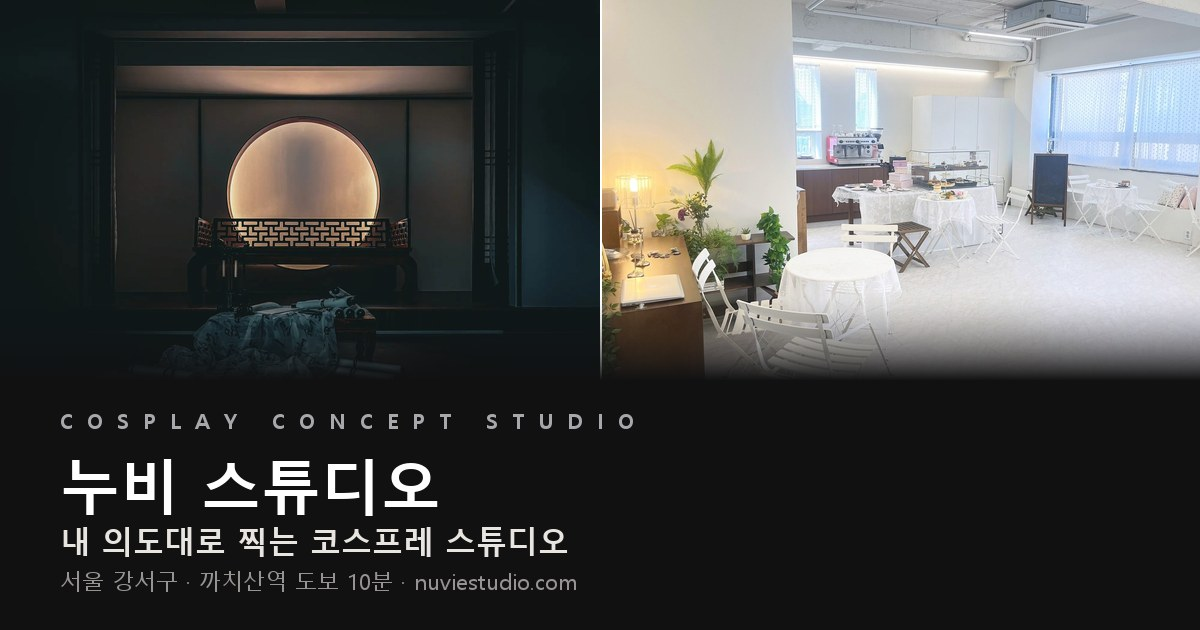
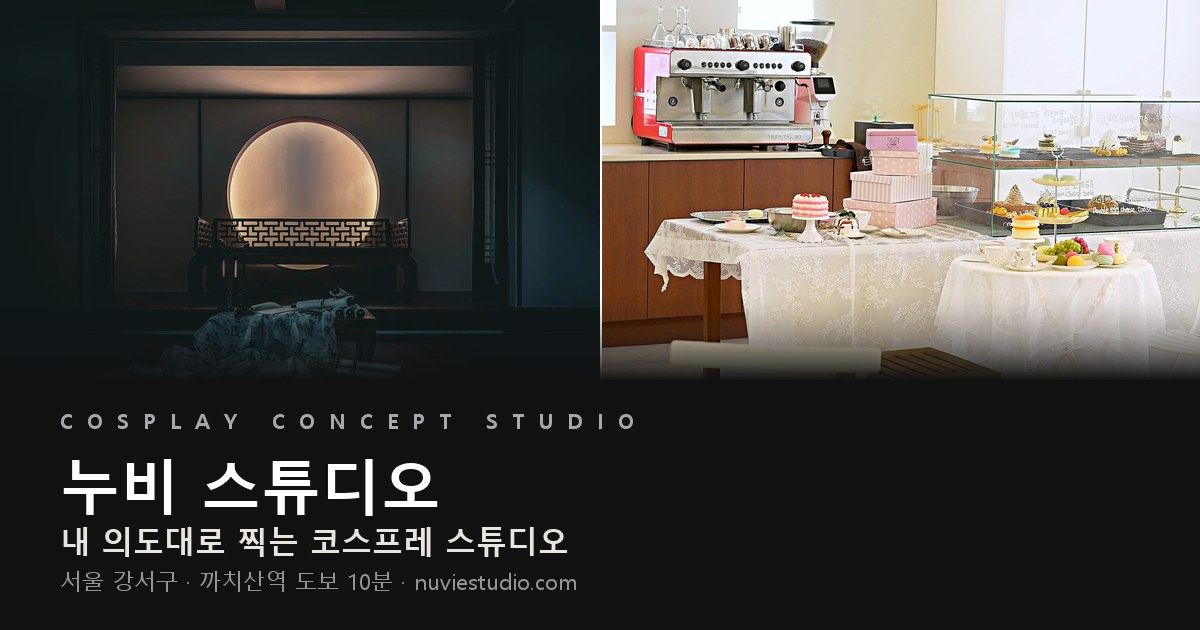
feat(landing): /b photos swapped to the B-room v2 retouch in the owner's hour-place listing order (10-02)
Owner (via coordinator + marketing): /b follows the B listing 62341 order the owner set at 10:1x.
Hero + og-b = listing cover 01 (counter, coffee machine). Gallery = listing 2-12 (11 photos, 01 not
repeated), end video unchanged. 14 (dropped from the listing), 09 and 10 are not used. /b freeze
exception: owner «측정이 섞여도 괜찮음»; brightness untouched (crop + LANCZOS resize only, per-photo
3:4 crop position chosen so the subject stays in frame). New -1002 file names so cached old images
never pair with new alts. Hub: light hero, room card, mobile gallery B slides follow (caption of
slide 1 «카페 카운터», alts describe photo 01). build_b_photos_1002.py rebuilds the set.
Test: test_b_photos_v2_1002.py (7 RED -> GREEN; pixel check locks crop position and no retouch).

Changed region(s): [[0.4933, 0.0, 1.0, 0.6032], [0.9558, 0.4524, 1.0, 0.5429]]

diff --git a/b.html b/b.html
@@ -76,16 +76,16 @@
 <meta property="og:title" content="B룸 화이트 티타임 카페 — 누비 스튜디오">
 <meta property="og:description" content="오후 5시부터 노을까지 통창 자연광이 드는 화이트 톤 공간. 티세트·앤티크 소품, 파우더룸. 약 11평 무인 단독 대관. 까치산역 도보 10분.">
 <meta property="og:url" content="https://www.nuviestudio.com/b">
-<meta property="og:image" content="https://www.nuviestudio.com/img/og-b-1001.jpg">
+<meta property="og:image" content="https://www.nuviestudio.com/img/og-b-1002.jpg">
 <meta property="og:locale" content="ko_KR">
 <meta name="twitter:card" content="summary_large_image">
 <meta name="twitter:site" content="@nuvie_studio">
 <meta name="twitter:title" content="B룸 화이트 티타임 카페 — 누비 스튜디오">
 <meta name="twitter:description" content="오후 5시부터 노을까지 통창 자연광이 드는 화이트 톤 공간. 티세트·앤티크 소품, 파우더룸. 약 11평 무인 단독 대관. 까치산역 도보 10분.">
-<meta name="twitter:image" content="https://www.nuviestudio.com/img/og-b-1001.jpg">
+<meta name="twitter:image" content="https://www.nuviestudio.com/img/og-b-1002.jpg">
 <link rel="icon" href="/favicon.ico" sizes="any">
 <link rel="apple-touch-icon" href="/apple-touch-icon.png">
-<link rel="preload" as="image" href="/img/room-b-1001.jpg" imagesrcset="/img/room-b-1001-800.jpg 800w, /img/room-b-1001-1200.jpg 1200w, /img/room-b-1001.jpg 1600w" imagesizes="100vw" fetchpriority="high">
+<link rel="preload" as="image" href="/img/room-b-1002.jpg" imagesrcset="/img/room-b-1002-800.jpg 800w, /img/room-b-1002-1200.jpg 1200w, /img/room-b-1002.jpg 1600w" imagesizes="100vw" fetchpriority="high">
 <link rel="stylesheet" href="/fonts.css">
 <link rel="stylesheet" href="/styles.css">
 <script type="application/ld+json">
@@ -97,10 +97,10 @@
   "description": "오후 5시부터 노을까지 통창 자연광이 드는 화이트 톤 공간. 티세트·앤티크 소품, 파우더룸. 약 11평 무인 단독 대관. 까치산역 도보 10분.",
   "url": "https://www.nuviestudio.com/b",
   "image": [
-    "https://www.nuviestudio.com/img/galB-1001-1.jpg",
-    "https://www.nuviestudio.com/img/galB-1001-2.jpg",
-    "https://www.nuviestudio.com/img/galB-1001-3.jpg",
-    "https://www.nuviestudio.com/img/galB-1001-4.jpg"
+    "https://www.nuviestudio.com/img/galB-1002-1.jpg",
+    "https://www.nuviestudio.com/img/galB-1002-2.jpg",
+    "https://www.nuviestudio.com/img/galB-1002-3.jpg",
+    "https://www.nuviestudio.com/img/galB-1002-4.jpg"
   ],
   "brand": {
     "@type": "Brand",
@@ -218,7 +218,7 @@
   <main class="main" id="top">
     <header class="hero" data-hero-tone="light" style="position:relative;height:76vh;min-height:480px;display:flex;flex-direction:column;justify-content:flex-end;overflow:hidden">
       <div style="position:absolute;inset:0;background:linear-gradient(135deg,#0B0B0C,#1C1C1F)"></div>
-      <div class="heroImgWrap" style="position:absolute;inset:0"><img data-fallback="1" data-ken decoding="async" fetchpriority="high" src="/img/room-b-1001.jpg" srcset="/img/room-b-1001-800.jpg 800w, /img/room-b-1001-1200.jpg 1200w, /img/room-b-1001.jpg 1600w" sizes="100vw" alt="B룸 화이트 티타임 카페 전경 — 자연광이 드는 화이트 톤 공간에 흰 테이블 세팅" style="display:block;width:100%;height:100%;object-fit:cover;filter:brightness(.76) saturate(.95);transform:scale(1.05)"></div>
+      <div class="heroImgWrap" style="position:absolute;inset:0"><img data-fallback="1" data-ken decoding="async" fetchpriority="high" src="/img/room-b-1002.jpg" srcset="/img/room-b-1002-800.jpg 800w, /img/room-b-1002-1200.jpg 1200w, /img/room-b-1002.jpg 1600w" sizes="100vw" alt="B룸 화이트 티타임 카페 — 커피머신 카운터와 레이스 티테이블" style="display:block;width:100%;height:100%;object-fit:cover;filter:brightness(.76) saturate(.95);transform:scale(1.05)"></div>
       <div class="heroScrim" style="position:absolute;inset:0;background:linear-gradient(180deg,rgba(6,6,7,.30) 0%,rgba(6,6,7,.06) 26%,rgba(6,6,7,.60) 62%,rgba(6,6,7,.92) 100%)"></div>
       <div class="herotop" style="position:absolute;top:0;left:0;right:0;z-index:3;padding:26px 40px;display:flex;justify-content:space-between;align-items:center;gap:14px;font-family:var(--label-font);font-size:11px;letter-spacing:.24em;text-transform:uppercase;color:rgba(255,255,255,.8)">
         <a href="/" style="white-space:nowrap;color:inherit;text-decoration:none">← 누비 스튜디오</a>
@@ -274,7 +274,7 @@
             <div><div class="skick">Gallery</div><h2 style="margin:0;font-size:clamp(26px,3vw,40px);letter-spacing:-.02em">공간</h2></div>
           </div>
           <p class="desc" data-reveal style="margin:0 0 34px">B룸에서 찍힌 장면들이에요.</p>
-          <div class="gal" data-reveal style="display:grid;grid-template-columns:repeat(2,1fr);gap:14px"><div style="aspect-ratio:3/4;overflow:hidden;border-radius:6px;border:1px solid var(--line);position:relative;background:linear-gradient(135deg,var(--elev),var(--panel))"><img data-fallback="1" data-zoom loading="lazy" decoding="async" src="/img/galB-1001-1.jpg" alt="B룸 카운터 — 커피머신과 레이스 테이블 세팅" style="position:absolute;inset:0;width:100%;height:100%;object-fit:cover;transition:transform .6s cubic-bezier(.22,.61,.36,1)"></div><div style="aspect-ratio:3/4;overflow:hidden;border-radius:6px;border:1px solid var(--line);position:relative;background:linear-gradient(135deg,var(--elev),var(--panel))"><img data-fallback="1" data-zoom loading="lazy" decoding="async" src="/img/galB-1001-2.jpg" alt="B룸 창가 — 원형 티테이블과 곰인형" style="position:absolute;inset:0;width:100%;height:100%;object-fit:cover;transition:transform .6s cubic-bezier(.22,.61,.36,1)"></div><div style="aspect-ratio:3/4;overflow:hidden;border-radius:6px;border:1px solid var(--line);position:relative;background:linear-gradient(135deg,var(--elev),var(--panel))"><img data-fallback="1" data-zoom loading="lazy" decoding="async" src="/img/galB-1001-3.jpg" alt="B룸 티세트 — 3단 디저트 스탠드와 찻잔" style="position:absolute;inset:0;width:100%;height:100%;object-fit:cover;transition:transform .6s cubic-bezier(.22,.61,.36,1)"></div><div style="aspect-ratio:3/4;overflow:hidden;border-radius:6px;border:1px solid var(--line);position:relative;background:linear-gradient(135deg,var(--elev),var(--panel))"><img data-fallback="1" data-zoom loading="lazy" decoding="async" src="/img/galB-1001-4.jpg" alt="B룸 창가 자리 — 레이스 커튼과 티테이블" style="position:absolute;inset:0;width:100%;height:100%;object-fit:cover;transition:transform .6s cubic-bezier(.22,.61,.36,1)"></div><div style="aspect-ratio:3/4;overflow:hidden;border-radius:6px;border:1px solid var(--line);position:relative;background:linear-gradient(135deg,var(--elev),var(--panel))"><img data-fallback="1" data-zoom loading="lazy" decoding="async" src="/img/galB-1001-5.jpg" alt="B룸 디저트 진열장" style="position:absolute;inset:0;width:100%;height:100%;object-fit:cover;transition:transform .6s cubic-bezier(.22,.61,.36,1)"></div><div style="aspect-ratio:3/4;overflow:hidden;border-radius:6px;border:1px solid var(--line);position:relative;background:linear-gradient(135deg,var(--elev),var(--panel))"><img data-fallback="1" data-zoom loading="lazy" decoding="async" src="/img/galB-1001-6.jpg" alt="B룸 파우더 코너 — 조명 거울과 원목 데스크" style="position:absolute;inset:0;width:100%;height:100%;object-fit:cover;transition:transform .6s cubic-bezier(.22,.61,.36,1)"></div><div style="aspect-ratio:3/4;overflow:hidden;border-radius:6px;border:1px solid var(--line);position:relative;background:linear-gradient(135deg,var(--elev),var(--panel))"><img data-fallback="1" data-zoom loading="lazy" decoding="async" src="/img/galB-1001-7.jpg" alt="B룸 화장대 코너 — 스탠드 조명과 화분" style="position:absolute;inset:0;width:100%;height:100%;object-fit:cover;transition:transform .6s cubic-bezier(.22,.61,.36,1)"></div><div style="aspect-ratio:3/4;overflow:hidden;border-radius:6px;border:1px solid var(--line);position:relative;background:linear-gradient(135deg,var(--elev),var(--panel))"><img data-fallback="1" data-zoom loading="lazy" decoding="async" src="/img/galB-1001-8.jpg" alt="B룸 거울과 촛대" style="position:absolute;inset:0;width:100%;height:100%;object-fit:cover;transition:transform .6s cubic-bezier(.22,.61,.36,1)"></div><div style="aspect-ratio:3/4;overflow:hidden;border-radius:6px;border:1px solid var(--line);position:relative;background:linear-gradient(135deg,var(--elev),var(--panel))"><img data-fallback="1" data-zoom loading="lazy" decoding="async" src="/img/galB-1001-9.jpg" alt="B룸 창가 벤치와 곰인형" style="position:absolute;inset:0;width:100%;height:100%;object-fit:cover;transition:transform .6s cubic-bezier(.22,.61,.36,1)"></div><div style="aspect-ratio:3/4;overflow:hidden;border-radius:6px;border:1px solid var(--line);position:relative;background:linear-gradient(135deg,var(--elev),var(--panel))"><img data-fallback="1" data-zoom loading="lazy" decoding="async" src="/img/galB-1001-10.jpg" alt="B룸 디저트 테이블 — 3단 스탠드와 레이스 테이블" style="position:absolute;inset:0;width:100%;height:100%;object-fit:cover;transition:transform .6s cubic-bezier(.22,.61,.36,1)"></div><div style="aspect-ratio:3/4;overflow:hidden;border-radius:6px;border:1px solid var(--line);position:relative;background:linear-gradient(135deg,var(--elev),var(--panel))"><img data-fallback="1" data-zoom loading="lazy" decoding="async" src="/img/galB-1001-11.jpg" alt="B룸 에스프레소 머신과 그라인더" style="position:absolute;inset:0;width:100%;height:100%;object-fit:cover;transition:transform .6s cubic-bezier(.22,.61,.36,1)"></div><div style="aspect-ratio:3/4;overflow:hidden;border-radius:6px;border:1px solid var(--line);position:relative;background:linear-gradient(135deg,var(--elev),var(--panel))"><img data-fallback="1" data-zoom loading="lazy" decoding="async" src="/img/galB-1001-12.jpg" alt="B룸 창가 벤치와 칠판, 원형 티테이블" style="position:absolute;inset:0;width:100%;height:100%;object-fit:cover;transition:transform .6s cubic-bezier(.22,.61,.36,1)"></div><div class="galvid" style="aspect-ratio:3/4;overflow:hidden;border-radius:6px;border:1px solid var(--line);position:relative;background:linear-gradient(135deg,var(--elev),var(--panel))"><video muted loop playsinline preload="none" data-src="/img/b-table-1001.mp4" data-poster="/img/b-table-1001-poster.jpg" aria-label="B룸 디저트 테이블과 카운터를 천천히 따라가는 영상" style="position:absolute;inset:0;width:100%;height:100%;object-fit:cover;transition:transform .6s cubic-bezier(.22,.61,.36,1)"></video><button type="button" class="galvid-btn" aria-label="영상 일시정지" hidden></button></div></div>
+          <div class="gal" data-reveal style="display:grid;grid-template-columns:repeat(2,1fr);gap:14px"><div style="aspect-ratio:3/4;overflow:hidden;border-radius:6px;border:1px solid var(--line);position:relative;background:linear-gradient(135deg,var(--elev),var(--panel))"><img data-fallback="1" data-zoom loading="lazy" decoding="async" src="/img/galB-1002-1.jpg" alt="B룸 카운터 — 디저트 상자와 케이크 진열" style="position:absolute;inset:0;width:100%;height:100%;object-fit:cover;transition:transform .6s cubic-bezier(.22,.61,.36,1)"></div><div style="aspect-ratio:3/4;overflow:hidden;border-radius:6px;border:1px solid var(--line);position:relative;background:linear-gradient(135deg,var(--elev),var(--panel))"><img data-fallback="1" data-zoom loading="lazy" decoding="async" src="/img/galB-1002-2.jpg" alt="B룸 전경 — 카운터와 원형 티테이블" style="position:absolute;inset:0;width:100%;height:100%;object-fit:cover;transition:transform .6s cubic-bezier(.22,.61,.36,1)"></div><div style="aspect-ratio:3/4;overflow:hidden;border-radius:6px;border:1px solid var(--line);position:relative;background:linear-gradient(135deg,var(--elev),var(--panel))"><img data-fallback="1" data-zoom loading="lazy" decoding="async" src="/img/galB-1002-3.jpg" alt="B룸 창가 — 곰인형과 원형 티테이블" style="position:absolute;inset:0;width:100%;height:100%;object-fit:cover;transition:transform .6s cubic-bezier(.22,.61,.36,1)"></div><div style="aspect-ratio:3/4;overflow:hidden;border-radius:6px;border:1px solid var(--line);position:relative;background:linear-gradient(135deg,var(--elev),var(--panel))"><img data-fallback="1" data-zoom loading="lazy" decoding="async" src="/img/galB-1002-4.jpg" alt="B룸 창가 — 레이스 커튼과 곰인형" style="position:absolute;inset:0;width:100%;height:100%;object-fit:cover;transition:transform .6s cubic-bezier(.22,.61,.36,1)"></div><div style="aspect-ratio:3/4;overflow:hidden;border-radius:6px;border:1px solid var(--line);position:relative;background:linear-gradient(135deg,var(--elev),var(--panel))"><img data-fallback="1" data-zoom loading="lazy" decoding="async" src="/img/galB-1002-5.jpg" alt="B룸 창가 자리 — 티테이블과 쿠션 의자" style="position:absolute;inset:0;width:100%;height:100%;object-fit:cover;transition:transform .6s cubic-bezier(.22,.61,.36,1)"></div><div style="aspect-ratio:3/4;overflow:hidden;border-radius:6px;border:1px solid var(--line);position:relative;background:linear-gradient(135deg,var(--elev),var(--panel))"><img data-fallback="1" data-zoom loading="lazy" decoding="async" src="/img/galB-1002-6.jpg" alt="B룸 디저트 스탠드 — 3단 스탠드와 찻잔" style="position:absolute;inset:0;width:100%;height:100%;object-fit:cover;transition:transform .6s cubic-bezier(.22,.61,.36,1)"></div><div style="aspect-ratio:3/4;overflow:hidden;border-radius:6px;border:1px solid var(--line);position:relative;background:linear-gradient(135deg,var(--elev),var(--panel))"><img data-fallback="1" data-zoom loading="lazy" decoding="async" src="/img/galB-1002-7.jpg" alt="B룸 디저트 — 조각 케이크 근접" style="position:absolute;inset:0;width:100%;height:100%;object-fit:cover;transition:transform .6s cubic-bezier(.22,.61,.36,1)"></div><div style="aspect-ratio:3/4;overflow:hidden;border-radius:6px;border:1px solid var(--line);position:relative;background:linear-gradient(135deg,var(--elev),var(--panel))"><img data-fallback="1" data-zoom loading="lazy" decoding="async" src="/img/galB-1002-8.jpg" alt="B룸 화장대 — 조명 거울과 의자" style="position:absolute;inset:0;width:100%;height:100%;object-fit:cover;transition:transform .6s cubic-bezier(.22,.61,.36,1)"></div><div style="aspect-ratio:3/4;overflow:hidden;border-radius:6px;border:1px solid var(--line);position:relative;background:linear-gradient(135deg,var(--elev),var(--panel))"><img data-fallback="1" data-zoom loading="lazy" decoding="async" src="/img/galB-1002-9.jpg" alt="B룸 탈의 공간 — 커튼과 스팀다리미" style="position:absolute;inset:0;width:100%;height:100%;object-fit:cover;transition:transform .6s cubic-bezier(.22,.61,.36,1)"></div><div style="aspect-ratio:3/4;overflow:hidden;border-radius:6px;border:1px solid var(--line);position:relative;background:linear-gradient(135deg,var(--elev),var(--panel))"><img data-fallback="1" data-zoom loading="lazy" decoding="async" src="/img/galB-1002-10.jpg" alt="B룸 소품 코너 — 스탠드 조명과 화분" style="position:absolute;inset:0;width:100%;height:100%;object-fit:cover;transition:transform .6s cubic-bezier(.22,.61,.36,1)"></div><div style="aspect-ratio:3/4;overflow:hidden;border-radius:6px;border:1px solid var(--line);position:relative;background:linear-gradient(135deg,var(--elev),var(--panel))"><img data-fallback="1" data-zoom loading="lazy" decoding="async" src="/img/galB-1002-11.jpg" alt="B룸 거울 코너 — 앤티크 거울과 촛대" style="position:absolute;inset:0;width:100%;height:100%;object-fit:cover;transition:transform .6s cubic-bezier(.22,.61,.36,1)"></div><div class="galvid" style="aspect-ratio:3/4;overflow:hidden;border-radius:6px;border:1px solid var(--line);position:relative;background:linear-gradient(135deg,var(--elev),var(--panel))"><video muted loop playsinline preload="none" data-src="/img/b-table-1001.mp4" data-poster="/img/b-table-1001-poster.jpg" aria-label="B룸 디저트 테이블과 카운터를 천천히 따라가는 영상" style="position:absolute;inset:0;width:100%;height:100%;object-fit:cover;transition:transform .6s cubic-bezier(.22,.61,.36,1)"></video><button type="button" class="galvid-btn" aria-label="영상 일시정지" hidden></button></div></div>
         </section>
 
         <section id="reviews">

diff --git a/index.html b/index.html
@@ -93,7 +93,7 @@
      09-29 동적 서브셋의 늦은 교체로 /a 360px 뒤로 가기 CLS 0.4~0.6·렌더 차단(/a 첫 화면 3.1초). -->
 <link rel="stylesheet" href="/fonts.css">
 <!-- 2026-09-17 P0: 히어로 LCP 프리로드(srcset 반영·모바일 800w) + 룸 상세 선수신(quick_back 완화·인앱 Chromium만·스크립트 실행 없음). -->
-<link rel="preload" as="image" href="/img/room-b-1001.jpg" imagesrcset="/img/room-b-1001-800.jpg 800w, /img/room-b-1001-1200.jpg 1200w, /img/room-b-1001.jpg 1600w" imagesizes="100vw" fetchpriority="high">
+<link rel="preload" as="image" href="/img/room-b-1002.jpg" imagesrcset="/img/room-b-1002-800.jpg 800w, /img/room-b-1002-1200.jpg 1200w, /img/room-b-1002.jpg 1600w" imagesizes="100vw" fetchpriority="high">
 <link rel="prefetch" href="/a" as="document"><link rel="prefetch" href="/b" as="document">
 <script type="application/ld+json">
 {"@context":"https://schema.org","@type":"LocalBusiness","@id":"https://www.nuviestudio.com/#business","name":"누비 스튜디오 NUVIE STUDIO","alternateName":["누비스튜디오","NUVIE STUDIO"],"description":"코스프레 촬영을 위한 컨셉 렌탈 스튜디오. 동양풍 블랙 호리존 A룸, 화이트 티타임 카페 B룸. 무인 운영.","url":"https://www.nuviestudio.com/","telephone":"+82-70-8211-1103","image":"https://www.nuviestudio.com/og.jpg","areaServed":"서울","address":{"@type":"PostalAddress","streetAddress":"곰달래로 184, 4층 (화곡동 874-12 남양빌딩)","addressLocality":"서울 강서구","addressRegion":"서울","postalCode":"07782","addressCountry":"KR"},"openingHours":"Mo-Su 00:00-24:00","hasMap":["https://naver.me/GM334mVo","https://place.map.kakao.com/918861206"],"sameAs":["https://x.com/nuvie_studio","https://www.instagram.com/nuvie_studio","https://naver.me/GM334mVo","https://place.map.kakao.com/918861206","https://www.hourplace.co.kr/place/61823","https://www.hourplace.co.kr/place/62341"],"keywords":"코스프레 스튜디오, 코스프레 렌탈, 컨셉 스튜디오, 까치산역 스튜디오, 강서구 코스프레, 동양풍 스튜디오, 자연광 스튜디오, 화이트 티타임 카페, 티타임 스튜디오, 동양풍 코스프레 스튜디오, 동양풍 코스프레 촬영","knowsAbout":["코스프레 촬영","동양풍 코스프레","블랙 호리존(BLACK CYC, 4M × 2.5M × 2.3M) 촬영","자연광 룩북·프로필 촬영"],"priceRange":"₩₩","makesOffer":[{"@type":"Offer","name":"A룸 — 동양풍 & 블랙 호리존(BLACK CYC)","url":"https://www.hourplace.co.kr/place/61823","availability":"https://schema.org/InStock","category":"코스프레 스튜디오 대관"},{"@type":"Offer","name":"B룸 — 화이트 티타임 카페","url":"https://www.hourplace.co.kr/place/62341","availability":"https://schema.org/InStock","category":"촬영 스튜디오 대관"}],"dateModified":"2026-09-22"}
@@ -163,7 +163,7 @@
            ⚠ 초기 src 는 **기본 테마(라이트) = B룸**이어야 LCP 이미지가 헛되지 않는다.
            ⚠ 밝기는 룸마다 다르다 — A룸 원본이 이미 매우 어두워 .76 을 먹이면 검정 덩어리가 된다
               (그게 「최상단이 까맣다」의 원인이었다). 교체는 setTheme() 이 맡는다(아래 HERO_BG). -->
-      <div class="heroImgWrap" style="position:absolute;inset:0"><img id="heroImg" data-fallback="1" data-ken decoding="async" fetchpriority="high" src="/img/room-b-1001.jpg" srcset="/img/room-b-1001-800.jpg 800w, /img/room-b-1001-1200.jpg 1200w, /img/room-b-1001.jpg 1600w" sizes="100vw" alt="누비 스튜디오 B룸 화이트 티타임 카페 — 통창 자연광이 드는 화이트 톤 공간" style="display:block;position:absolute;inset:0;width:100%;height:100%;object-fit:cover;filter:brightness(.62) saturate(.95);transform:scale(1.05);opacity:1;transition:opacity .55s ease"></div>
+      <div class="heroImgWrap" style="position:absolute;inset:0"><img id="heroImg" data-fallback="1" data-ken decoding="async" fetchpriority="high" src="/img/room-b-1002.jpg" srcset="/img/room-b-1002-800.jpg 800w, /img/room-b-1002-1200.jpg 1200w, /img/room-b-1002.jpg 1600w" sizes="100vw" alt="누비 스튜디오 B룸 화이트 티타임 카페 — 커피머신 카운터와 레이스 티테이블" style="display:block;position:absolute;inset:0;width:100%;height:100%;object-fit:cover;filter:brightness(.62) saturate(.95);transform:scale(1.05);opacity:1;transition:opacity .55s ease"></div>
       <!-- 2026-08-05: class 신설. 모바일에서 이 스크림을 덮어써야 하는데 선택할 이름이 없었다(styles.css 참조). -->
       <div class="heroScrim" style="position:absolute;inset:0;background:linear-gradient(180deg,rgba(6,6,7,.30) 0%,rgba(6,6,7,.06) 26%,rgba(6,6,7,.60) 62%,rgba(6,6,7,.92) 100%)"></div>
       <div class="herotop" style="position:absolute;top:0;left:0;right:0;z-index:3;padding:26px 40px;display:flex;justify-content:space-between;align-items:center;gap:14px;font-family:var(--label-font);font-size:11px;letter-spacing:.24em;text-transform:uppercase;color:rgba(255,255,255,.8)">
@@ -239,11 +239,11 @@
       <div class="mgal-track" id="mgalTrack">
         <div class="mgal-slide"><img loading="eager" fetchpriority="low" decoding="async" src="/img/galA0.jpg" srcset="/img/galA0-800.jpg 800w, /img/galA0.jpg 1200w" sizes="84vw" alt="A룸 동양풍 — 월동문·블랙 호리존"><div class="mgal-cap"><b>A룸 · 동양풍</b><span>월동문 · 블랙 호리존</span></div></div>
         <!-- 2026-08-22 대표 지시: 새로 배치된 B룸은 «전경»(galB4 전체 공간)이 먼저 나온다. 디테일컷은 뒤로. -->
-        <div class="mgal-slide"><img loading="lazy" decoding="async" src="/img/room-b-1001.jpg" srcset="/img/room-b-1001-800.jpg 800w, /img/room-b-1001-1200.jpg 1200w, /img/room-b-1001.jpg 1600w" sizes="84vw" alt="B룸 화이트 티타임 카페 — 전체 공간 전경(카운터·티테이블·통창)"><div class="mgal-cap"><b>B룸 · 화이트</b><span>티타임 카페 전경</span></div></div>
+        <div class="mgal-slide"><img loading="lazy" decoding="async" src="/img/room-b-1002.jpg" srcset="/img/room-b-1002-800.jpg 800w, /img/room-b-1002-1200.jpg 1200w, /img/room-b-1002.jpg 1600w" sizes="84vw" alt="B룸 화이트 티타임 카페 — 커피머신 카운터와 레이스 티테이블"><div class="mgal-cap"><b>B룸 · 화이트</b><span>카페 카운터</span></div></div>
         <div class="mgal-slide"><img loading="lazy" decoding="async" src="/img/galA2.jpg" srcset="/img/galA2-800.jpg 800w, /img/galA2.jpg 1100w" sizes="84vw" alt="A룸 동양풍 — 격자문 세트"><div class="mgal-cap"><b>A룸 · 동양풍</b><span>격자문 세트</span></div></div>
-        <div class="mgal-slide"><img loading="lazy" decoding="async" src="/img/galB-1001-2.jpg" srcset="/img/galB-1001-2-800.jpg 800w, /img/galB-1001-2.jpg 825w" sizes="84vw" alt="B룸 화이트 — 창가 티테이블과 곰인형"><div class="mgal-cap"><b>B룸 · 화이트</b><span>통창 자연광</span></div></div>
+        <div class="mgal-slide"><img loading="lazy" decoding="async" src="/img/galB-1002-3.jpg" srcset="/img/galB-1002-3-800.jpg 800w, /img/galB-1002-3.jpg 825w" sizes="84vw" alt="B룸 화이트 — 창가 티테이블과 곰인형"><div class="mgal-cap"><b>B룸 · 화이트</b><span>통창 자연광</span></div></div>
         <div class="mgal-slide"><img loading="lazy" decoding="async" src="/img/galA4.jpg" srcset="/img/galA4-800.jpg 800w, /img/galA4.jpg 1200w" sizes="84vw" alt="A룸 동양풍 — 월문 무드"><div class="mgal-cap"><b>A룸 · 동양풍</b><span>월문 무드</span></div></div>
-        <div class="mgal-slide"><img loading="lazy" decoding="async" src="/img/galB-1001-3.jpg" srcset="/img/galB-1001-3-800.jpg 800w, /img/galB-1001-3.jpg 825w" sizes="84vw" alt="B룸 화이트 — 티세트 디테일"><div class="mgal-cap"><b>B룸 · 화이트</b><span>티세트 디테일</span></div></div>
+        <div class="mgal-slide"><img loading="lazy" decoding="async" src="/img/galB-1002-6.jpg" srcset="/img/galB-1002-6-800.jpg 800w, /img/galB-1002-6.jpg 825w" sizes="84vw" alt="B룸 화이트 — 3단 디저트 스탠드와 찻잔"><div class="mgal-cap"><b>B룸 · 화이트</b><span>티세트 디테일</span></div></div>
       </div>
       <div class="mgal-dots" id="mgalDots" aria-hidden="true"></div>
       <div class="mgal-hint">← 밀어서 룸 사진 더 보기 · A·B 6장 →</div>
@@ -341,7 +341,7 @@
         </div>
         <div class="room-column">
           <a class="roomcard" href="/b" data-room-detail="b" data-room-detail-from="card">
-            <div class="roomcard-img"><img data-fallback="1" loading="lazy" decoding="async" src="/img/room-b-1001.jpg" srcset="/img/room-b-1001-800.jpg 800w, /img/room-b-1001-1200.jpg 1200w, /img/room-b-1001.jpg 1600w" sizes="(max-width: 760px) 92vw, 560px" alt="B룸 화이트 티타임 카페 전경 — 자연광이 드는 화이트 톤 공간"></div>
+            <div class="roomcard-img"><img data-fallback="1" loading="lazy" decoding="async" src="/img/room-b-1002.jpg" srcset="/img/room-b-1002-800.jpg 800w, /img/room-b-1002-1200.jpg 1200w, /img/room-b-1002.jpg 1600w" sizes="(max-width: 760px) 92vw, 560px" alt="B룸 화이트 티타임 카페 — 커피머신 카운터와 레이스 티테이블"></div>
             <div class="roomcard-body">
               <span class="roomcard-kick">B ROOM</span><span class="roomcard-new">NEW</span>
               <h3>화이트 티타임 카페</h3>
@@ -1006,7 +1006,7 @@
         사진만 갈아끼우고 그 전제는 건드리지 않는다 — 07-29·08-04 에 두 번 깨진 자리다. */
   var HERO_BG={
     dark :{src:'/img/hero.jpg',  filter:'brightness(1) saturate(1)',      alt:'누비 스튜디오 A룸 동양풍 블랙 호리존 세트'},
-    light:{src:'/img/room-b-1001.jpg',filter:'brightness(.62) saturate(.95)',  alt:'누비 스튜디오 B룸 화이트 티타임 카페 — 통창 자연광이 드는 화이트 톤 공간'}
+    light:{src:'/img/room-b-1002.jpg',filter:'brightness(.62) saturate(.95)',  alt:'누비 스튜디오 B룸 화이트 티타임 카페 — 통창 자연광이 드는 화이트 톤 공간'}
   };
   /* 🎞 전환은 **크로스페이드**다 (2026-08-04 대표 「히어로 전환이 좀 딱딱하네요」).
      종전엔 같은 <img> 의 src 를 갈아끼웠다 → 교체 순간 사진이 사라지며 뒤의 검은 그라디언트가

diff --git a/test_b_photos_v2_1002.py b/test_b_photos_v2_1002.py
@@ -1,0 +1,127 @@
+# -*- coding: utf-8 -*-
+"""/b 사진을 B룸 재보정 v2 로 교체(2026-10-02 대표 결정, 총괄 중계 · 마케팅팀 요청).
+
+대표 확인: 11/11 /b 동결의 예외로 «측정이 섞여도 괜찮음». 밝기는 다시 손대지 않는다(대표 확인판) ⇒ 자르기·크기 조정만.
+  · 순서 = 대표가 직접 바꾼 아워 B 리스팅(62341) 최종 순서(10-02 10:1x «/b도 맞춰 주세요», 마케팅팀이 공개 페이지·편집폼에서 읽음).
+  · 첫 화면(room-b)·og-b = 리스팅 커버 broom_20261001_01 (카운터·커피머신). 가로 4:3 그대로 1600/1200/800.
+  · 갤러리 = 리스팅 2~12번 11장(아래 GALLERY 순서). 01 을 갤러리에 한 번 더 넣지 않고 11칸으로 줄인다. 끝 영상(b-table-1001.mp4)은 그대로.
+  · 쓰지 않는 사진: 14(대표가 리스팅에서 뺌 — 첫 화면·og 포함 /b 에서도 안 씀)·09(08과 거의 같음)·10(11과 거의 같음). 평면도는 리스팅에만.
+  · 가로 사진을 3:4 로 자를 때 가운데 대상이 잘리지 않게 사진마다 가로 위치(ax, 0=왼쪽 끝·1=오른쪽 끝)를 개발팀이 사진을 보고 정했다.
+  · 새 파일 이름(-1002) — 캐시된 옛 사진이 새 alt 와 짝지어지지 않게(10-01 교체와 같은 이유).
+"""
+import json
+import re
+from pathlib import Path
+
+from PIL import Image, ImageChops, ImageStat
+
+ROOT = Path(__file__).parent
+V2 = Path(r"F:\무인 렌탈스튜디오 인수\source\촬영_2026-09-29\보정_v2")
+V1 = Path(r"F:\무인 렌탈스튜디오 인수\source\촬영_2026-09-29\보정")
+
+HERO_SRC = V2 / "broom_20261001_01.jpg"
+HERO_ALT = "B룸 화이트 티타임 카페 — 커피머신 카운터와 레이스 티테이블"
+# (소스, ax, alt) — 순서 = 갤러리 1~11칸 = 리스팅 2~12번
+GALLERY = [
+    (V1 / "broom_20261001_05.jpg", 0.50, "B룸 카운터 — 디저트 상자와 케이크 진열"),
+    (V2 / "broom_20261001_main1.jpg", 0.50, "B룸 전경 — 카운터와 원형 티테이블"),
+    (V2 / "broom_20261001_02.jpg", 0.25, "B룸 창가 — 곰인형과 원형 티테이블"),
+    (V2 / "broom_20261001_03.jpg", 0.30, "B룸 창가 — 레이스 커튼과 곰인형"),
+    (V2 / "broom_20261001_04.jpg", 0.50, "B룸 창가 자리 — 티테이블과 쿠션 의자"),
+    (V2 / "broom_20261001_08.jpg", 0.50, "B룸 디저트 스탠드 — 3단 스탠드와 찻잔"),
+    (V2 / "broom_20261001_06.jpg", 0.50, "B룸 디저트 — 조각 케이크 근접"),
+    (V2 / "broom_20261001_11.jpg", 0.35, "B룸 화장대 — 조명 거울과 의자"),
+    (V2 / "broom_20261001_13.jpg", 0.40, "B룸 탈의 공간 — 커튼과 스팀다리미"),
+    (V2 / "broom_20261001_15.jpg", 0.50, "B룸 소품 코너 — 스탠드 조명과 화분"),
+    (V2 / "broom_20261001_16.jpg", 0.30, "B룸 거울 코너 — 앤티크 거울과 촛대"),
+]
+OLD = ("galB-1001-", "room-b-1001", "og-b-1001")
+SURFACES = ("rooms.json", "b.html", "index.html", "build_og.py", "test_b_copy_fixture.json")
+
+
+def _room_b():
+    rooms = json.loads((ROOT / "rooms.json").read_text(encoding="utf-8"))
+    return next(r for r in rooms["rooms"] if r["slug"] == "b")
+
+
+def _crop34(src: Path, ax: float, size):
+    im = Image.open(src).convert("RGB")
+    w, h = im.size
+    cw = h * 3 // 4
+    x0 = int((w - cw) * ax)
+    return im.crop((x0, 0, x0 + cw, h)).resize(size, Image.LANCZOS)
+
+
+def _diff(a: Image.Image, b: Image.Image) -> float:
+    return sum(ImageStat.Stat(ImageChops.difference(a.convert("RGB"), b.convert("RGB"))).mean) / 3
+
+
+def test_rooms_json_hero_og_and_gallery_order():
+    b = _room_b()
+    assert b["hero"]["image"] == "/img/room-b-1002.jpg" and b["hero"]["alt"] == HERO_ALT
+    assert b["seo"]["ogImage"] == "/img/og-b-1002.jpg"
+    gal = b["gallery"]
+    assert [g["src"] for g in gal[:11]] == [f"/img/galB-1002-{i}.jpg" for i in range(1, 12)]
+    assert [g["alt"] for g in gal[:11]] == [alt for _, _, alt in GALLERY]
+    assert len(gal) == 12 and gal[11].get("video") == "/img/b-table-1001.mp4", "11칸 + 끝 영상(그대로)"
+
+
+def test_no_old_b_photo_reference_left():
+    for name in SURFACES:
+        text = (ROOT / name).read_text(encoding="utf-8")
+        for old in OLD:
+            assert old not in text, f"{name} 에 옛 참조 {old} 가 남아 있다"
+
+
+def test_b_html_and_hub_point_at_new_files():
+    B = (ROOT / "b.html").read_text(encoding="utf-8")
+    HUB = (ROOT / "index.html").read_text(encoding="utf-8")
+    assert 'content="https://www.nuviestudio.com/img/og-b-1002.jpg"' in B
+    assert 'src="/img/room-b-1002.jpg"' in B and "/img/room-b-1002-800.jpg 800w" in B
+    assert HERO_ALT in B
+    for i in range(1, 12):
+        assert f"/img/galB-1002-{i}.jpg" in B, i
+    assert "/img/galB-1002-12" not in B, "갤러리는 11칸"
+    assert "/img/b-table-1001.mp4" in B
+    assert "/img/room-b-1002.jpg" in HUB
+    assert "light:{src:'/img/room-b-1002.jpg'" in HUB, "허브 라이트 테마 = 새 B룸 첫 화면"
+    slides = re.findall(r'class="mgal-slide"><img[^>]*src="(/img/galB-1002-\d+)\.jpg"', HUB)
+    assert slides == ["/img/galB-1002-3", "/img/galB-1002-6"], "허브 모바일 갤러리 B 2·3번째 = 곰인형 창가·디저트 스탠드"
+    for alt in re.findall(r'<img[^>]*room-b-1002[^>]*alt="([^"]*)"', B + HUB):
+        assert "전경" not in alt, f"첫 화면 사진(01 카운터)은 전경이 아니다: {alt}"
+
+
+def test_image_files_sizes():
+    for i in range(1, 12):
+        assert Image.open(ROOT / f"img/galB-1002-{i}.jpg").size == (825, 1100), i
+        assert Image.open(ROOT / f"img/galB-1002-{i}-800.jpg").size == (800, 1067), i
+    for suf, size in (("", (1600, 1200)), ("-1200", (1200, 900)), ("-800", (800, 600))):
+        assert Image.open(ROOT / f"img/room-b-1002{suf}.jpg").size == size, suf
+    assert Image.open(ROOT / "img/og-b-1002.jpg").size == (1200, 630)
+
+
+def test_gallery_pixels_are_the_v2_source_cropped_at_ax_without_retouch():
+    """자르기 위치와 «밝기 무보정»을 함께 잠근다: 소스를 ax 로 자른 것과 평균 차이가 작아야 한다."""
+    for i, (src, ax, _) in enumerate(GALLERY, 1):
+        assert src.exists(), f"원본 없음: {src}"
+        out = Image.open(ROOT / f"img/galB-1002-{i}.jpg")
+        assert _diff(out, _crop34(src, ax, (825, 1100))) < 4, i
+        # 다른 위치로 잘랐다면 차이가 커야 한다(이 검사가 위치를 실제로 구별하는지)
+        if ax != 0.5:
+            assert _diff(out, _crop34(src, 0.5, (825, 1100))) > _diff(out, _crop34(src, ax, (825, 1100))), i
+
+
+def test_hero_is_source_01_resized_without_retouch():
+    assert HERO_SRC.exists()
+    src = Image.open(HERO_SRC).convert("RGB")
+    for suf, size in (("", (1600, 1200)), ("-1200", (1200, 900)), ("-800", (800, 600))):
+        out = Image.open(ROOT / f"img/room-b-1002{suf}.jpg")
+        assert _diff(out, src.resize(size, Image.LANCZOS)) < 4, suf
+
+
+def test_freeze_fixture_follows_the_exception():
+    fx = json.loads((ROOT / "test_b_copy_fixture.json").read_text(encoding="utf-8"))
+    assert fx["hero_img"] == "/img/room-b-1002.jpg"
+    assert fx["og_image"] == "https://www.nuviestudio.com/img/og-b-1002.jpg"
+    assert [g[0] for g in fx["gallery"][:11]] == [f"/img/galB-1002-{i}.jpg" for i in range(1, 12)]
+    assert [g[1] for g in fx["gallery"][:11]] == [alt for _, _, alt in GALLERY]

diff --git a/build_b_photos_1002.py b/build_b_photos_1002.py
@@ -1,0 +1,75 @@
+"""Build the 2026-10-02 B-room photo set from the approved v2 originals.
+
+Only cropping, LANCZOS resizing, and JPEG encoding are applied. The gallery
+table is copied from test_b_photos_v2_1002.py so this build stays independent
+of the test module.
+"""
+from __future__ import annotations
+
+from pathlib import Path
+
+from PIL import Image
+
+
+ROOT = Path(__file__).resolve().parent
+V2 = Path(r"F:\무인 렌탈스튜디오 인수\source\촬영_2026-09-29\보정_v2")
+V1 = Path(r"F:\무인 렌탈스튜디오 인수\source\촬영_2026-09-29\보정")
+HERO_SRC = V2 / "broom_20261001_01.jpg"
+HERO_ALT = "B룸 화이트 티타임 카페 — 커피머신 카운터와 레이스 티테이블"
+GALLERY = [
+    (V1 / "broom_20261001_05.jpg", 0.50, "B룸 카운터 — 디저트 상자와 케이크 진열"),
+    (V2 / "broom_20261001_main1.jpg", 0.50, "B룸 전경 — 카운터와 원형 티테이블"),
+    (V2 / "broom_20261001_02.jpg", 0.25, "B룸 창가 — 곰인형과 원형 티테이블"),
+    (V2 / "broom_20261001_03.jpg", 0.30, "B룸 창가 — 레이스 커튼과 곰인형"),
+    (V2 / "broom_20261001_04.jpg", 0.50, "B룸 창가 자리 — 티테이블과 쿠션 의자"),
+    (V2 / "broom_20261001_08.jpg", 0.50, "B룸 디저트 스탠드 — 3단 스탠드와 찻잔"),
+    (V2 / "broom_20261001_06.jpg", 0.50, "B룸 디저트 — 조각 케이크 근접"),
+    (V2 / "broom_20261001_11.jpg", 0.35, "B룸 화장대 — 조명 거울과 의자"),
+    (V2 / "broom_20261001_13.jpg", 0.40, "B룸 탈의 공간 — 커튼과 스팀다리미"),
+    (V2 / "broom_20261001_15.jpg", 0.50, "B룸 소품 코너 — 스탠드 조명과 화분"),
+    (V2 / "broom_20261001_16.jpg", 0.30, "B룸 거울 코너 — 앤티크 거울과 촛대"),
+]
+
+
+def save_jpeg(image: Image.Image, path: Path, quality: int, *, optimize: bool = False, progressive: bool = False) -> None:
+    image.save(path, format="JPEG", quality=quality, optimize=optimize, progressive=progressive)
+
+
+def crop_gallery(src: Path, ax: float) -> Image.Image:
+    image = Image.open(src).convert("RGB")
+    width, height = image.size
+    crop_width = height * 3 // 4
+    x0 = int((width - crop_width) * ax)
+    return image.crop((x0, 0, x0 + crop_width, height))
+
+
+def build() -> None:
+    images = ROOT / "img"
+    assert len(GALLERY) == 11
+    for number, (source, ax, _alt) in enumerate(GALLERY, 1):
+        cropped = crop_gallery(source, ax)
+        large = cropped.resize((825, 1100), Image.LANCZOS)
+        small = cropped.resize((800, 1067), Image.LANCZOS)
+        large_path = images / f"galB-1002-{number}.jpg"
+        quality = 84
+        while True:
+            save_jpeg(large, large_path, quality=quality, optimize=True, progressive=True)
+            if large_path.stat().st_size <= 200_000:
+                break
+            quality -= 1
+            if quality < 78:
+                raise ValueError(f"{large_path.name} cannot meet the 200 KB target")
+        save_jpeg(small, images / f"galB-1002-{number}-800.jpg", quality=82,
+                  optimize=True, progressive=True)
+
+    hero = Image.open(HERO_SRC).convert("RGB")
+    for suffix, size, quality in (
+        ("", (1600, 1200), 85),
+        ("-1200", (1200, 900), 82),
+        ("-800", (800, 600), 82),
+    ):
+        save_jpeg(hero.resize(size, Image.LANCZOS), images / f"room-b-1002{suffix}.jpg", quality=quality)
+
+
+if __name__ == "__main__":
+    build()

diff --git a/test_hub_visual_regressions.py b/test_hub_visual_regressions.py
@@ -183,7 +183,7 @@ def test_히어로가_테마별로_다른_룸을_쓴다():
     assert m, "HERO_BG 매핑이 사라졌다"
     blk = m.group(1)
     assert re.search(r"dark\s*:\{src:'/img/hero\.jpg'", blk), "다크 = A룸(hero.jpg) 이 아니다"
-    assert re.search(r"light\s*:\{src:'/img/room-b-1001\.jpg'", blk), "라이트 = B룸(room-b.jpg) 이 아니다"
+    assert re.search(r"light\s*:\{src:'/img/room-b-1002\.jpg'", blk), "라이트 = B룸(room-b.jpg) 이 아니다"
     assert "paintHero(t);}" in HTML, "setTheme 이 배경을 갈아끼우지 않는다"
 
 
@@ -193,7 +193,7 @@ def test_히어로_초기_이미지가_초기_테마와_일치한다():
     초기 테마는 <body data-theme="..."> 하드코딩이고 setTheme 은 토글 때만 돈다 →
     **초기 src 는 HTML 이 정본**이라 손으로 맞춰야 하고, 그래서 조용히 어긋나기 쉽다."""
     theme = re.search(r'<body data-theme="(\w+)"', HTML).group(1)
-    want = "/img/room-b-1001.jpg" if theme == "light" else "/img/hero.jpg"   # 10-01 B룸 사진 교체(새 이름)
+    want = "/img/room-b-1002.jpg" if theme == "light" else "/img/hero.jpg"   # 10-02 v2 B룸 사진 교체(새 이름)
     hero = re.search(r'<img id="heroImg"[^>]*src="([^"]+)"', HTML)
     assert hero, "heroImg 를 못 찾음"
     assert hero.group(1) == want, (

diff --git a/build_og.py b/build_og.py
@@ -22,7 +22,7 @@ RATIO = TARGET_W / TARGET_H
 # (출력, 소스) — 소스는 룸을 한 컷으로 대표하는 이미지
 JOBS = [
     ("img/og-a.jpg", "img/hero.jpg"),
-    ("img/og-b-1001.jpg", "img/room-b-1001.jpg")   # 10-01 B룸 사진 교체(새 이름 = 캐시),
+    ("img/og-b-1002.jpg", "img/room-b-1002.jpg")   # 10-02 v2 B룸 사진 교체(새 이름 = 캐시),
 ]
 
 # ── 허브 OG (og.jpg) ──────────────────────────────────────────────────
@@ -70,7 +70,7 @@ def make_hub() -> None:
     line1, line2 = read_hub_h1()
     photo_h, half = HUB_H - HUB_BAND, HUB_W // 2
     a = cover(Image.open(ROOT / "img/hero.jpg").convert("RGB"), half, photo_h, ay=0.44)
-    b = cover(Image.open(ROOT / "img/room-b-1001.jpg").convert("RGB"), half, photo_h, ay=0.55)
+    b = cover(Image.open(ROOT / "img/room-b-1002.jpg").convert("RGB"), half, photo_h, ay=0.55)
     canvas = Image.new("RGB", (HUB_W, HUB_H), INK)
     canvas.paste(a, (0, 0)); canvas.paste(b, (half, 0))
     ImageDraw.Draw(canvas).line([(half, 0), (half, photo_h)], fill=(255, 255, 255), width=2)

diff --git a/test_ux0929_1_anchor.py b/test_ux0929_1_anchor.py
@@ -122,6 +122,7 @@ def test_b_room_own_copy_and_photos_unchanged():
     test_b_copy_fixture.json. 소개 문구·제목·설명·히어로·태그·갤러리 사진이 바뀌면 RED(11/11 해제 때 이 픽스처를 새로 뽑는다).
     2026-10-01 사진만 먼저 풀림: 대표 «보정이 완료되면, 콘텐츠 발행함 드래프트 B룸 사진들 교체해주시고, 아워 및 랜딩페이지에도 교체진행해주세요»
     + «2개 사진 추가(메인사진 교체용)» → 픽스처의 사진 항목(og_image·hero_img·gallery 의 주소·설명)만 새 사진으로 다시 뽑았다.
+    2026-10-02 예외: 대표 «측정이 섞여도 괜찮음» 승인으로 사진을 v2 로 교체했다.
     문구 항목(title·description·hero_h1·hero_tags·about)은 그대로 11/11 까지 동결이다."""
     fixture = json.loads((ROOT / "test_b_copy_fixture.json").read_text(encoding="utf-8"))
     now = _b_copy_view((ROOT / "b.html").read_text(encoding="utf-8"))

diff --git a/test_mobile_photo_gallery.py b/test_mobile_photo_gallery.py
@@ -28,7 +28,7 @@ def test_mgal_섹션이_존재하고_룸사진_6장을_싣는다():
     assert m, "mgal 섹션 블록을 못 찾았다"
     block = m.group(0)
     # B 전경은 B 메인이미지(room-b.jpg)를 그대로 쓴다(2026-08-22 대표 지시) — gal 패턴 + room-b 둘 다 인정
-    imgs = re.findall(r'/img/(?:gal[AB]\d|galB-1001-\d|room-b(?:-1001)?)\.jpg', block)   # 10-01 B룸 사진 교체(새 이름)
+    imgs = re.findall(r'/img/(?:gal[AB]\d|galB-1002-\d|room-b(?:-1002)?)\.jpg', block)   # 10-02 v2 B룸 사진 교체(새 이름)
     assert len(imgs) >= 6, f"갤러리 룸 사진이 6장 미만이다: {imgs}"
     assert any("galA" in i for i in imgs), "A룸 사진이 없다"
     assert any(("galB" in i) or ("room-b" in i) for i in imgs), "B룸 사진이 없다(한 룸도 편들지 않음)"
